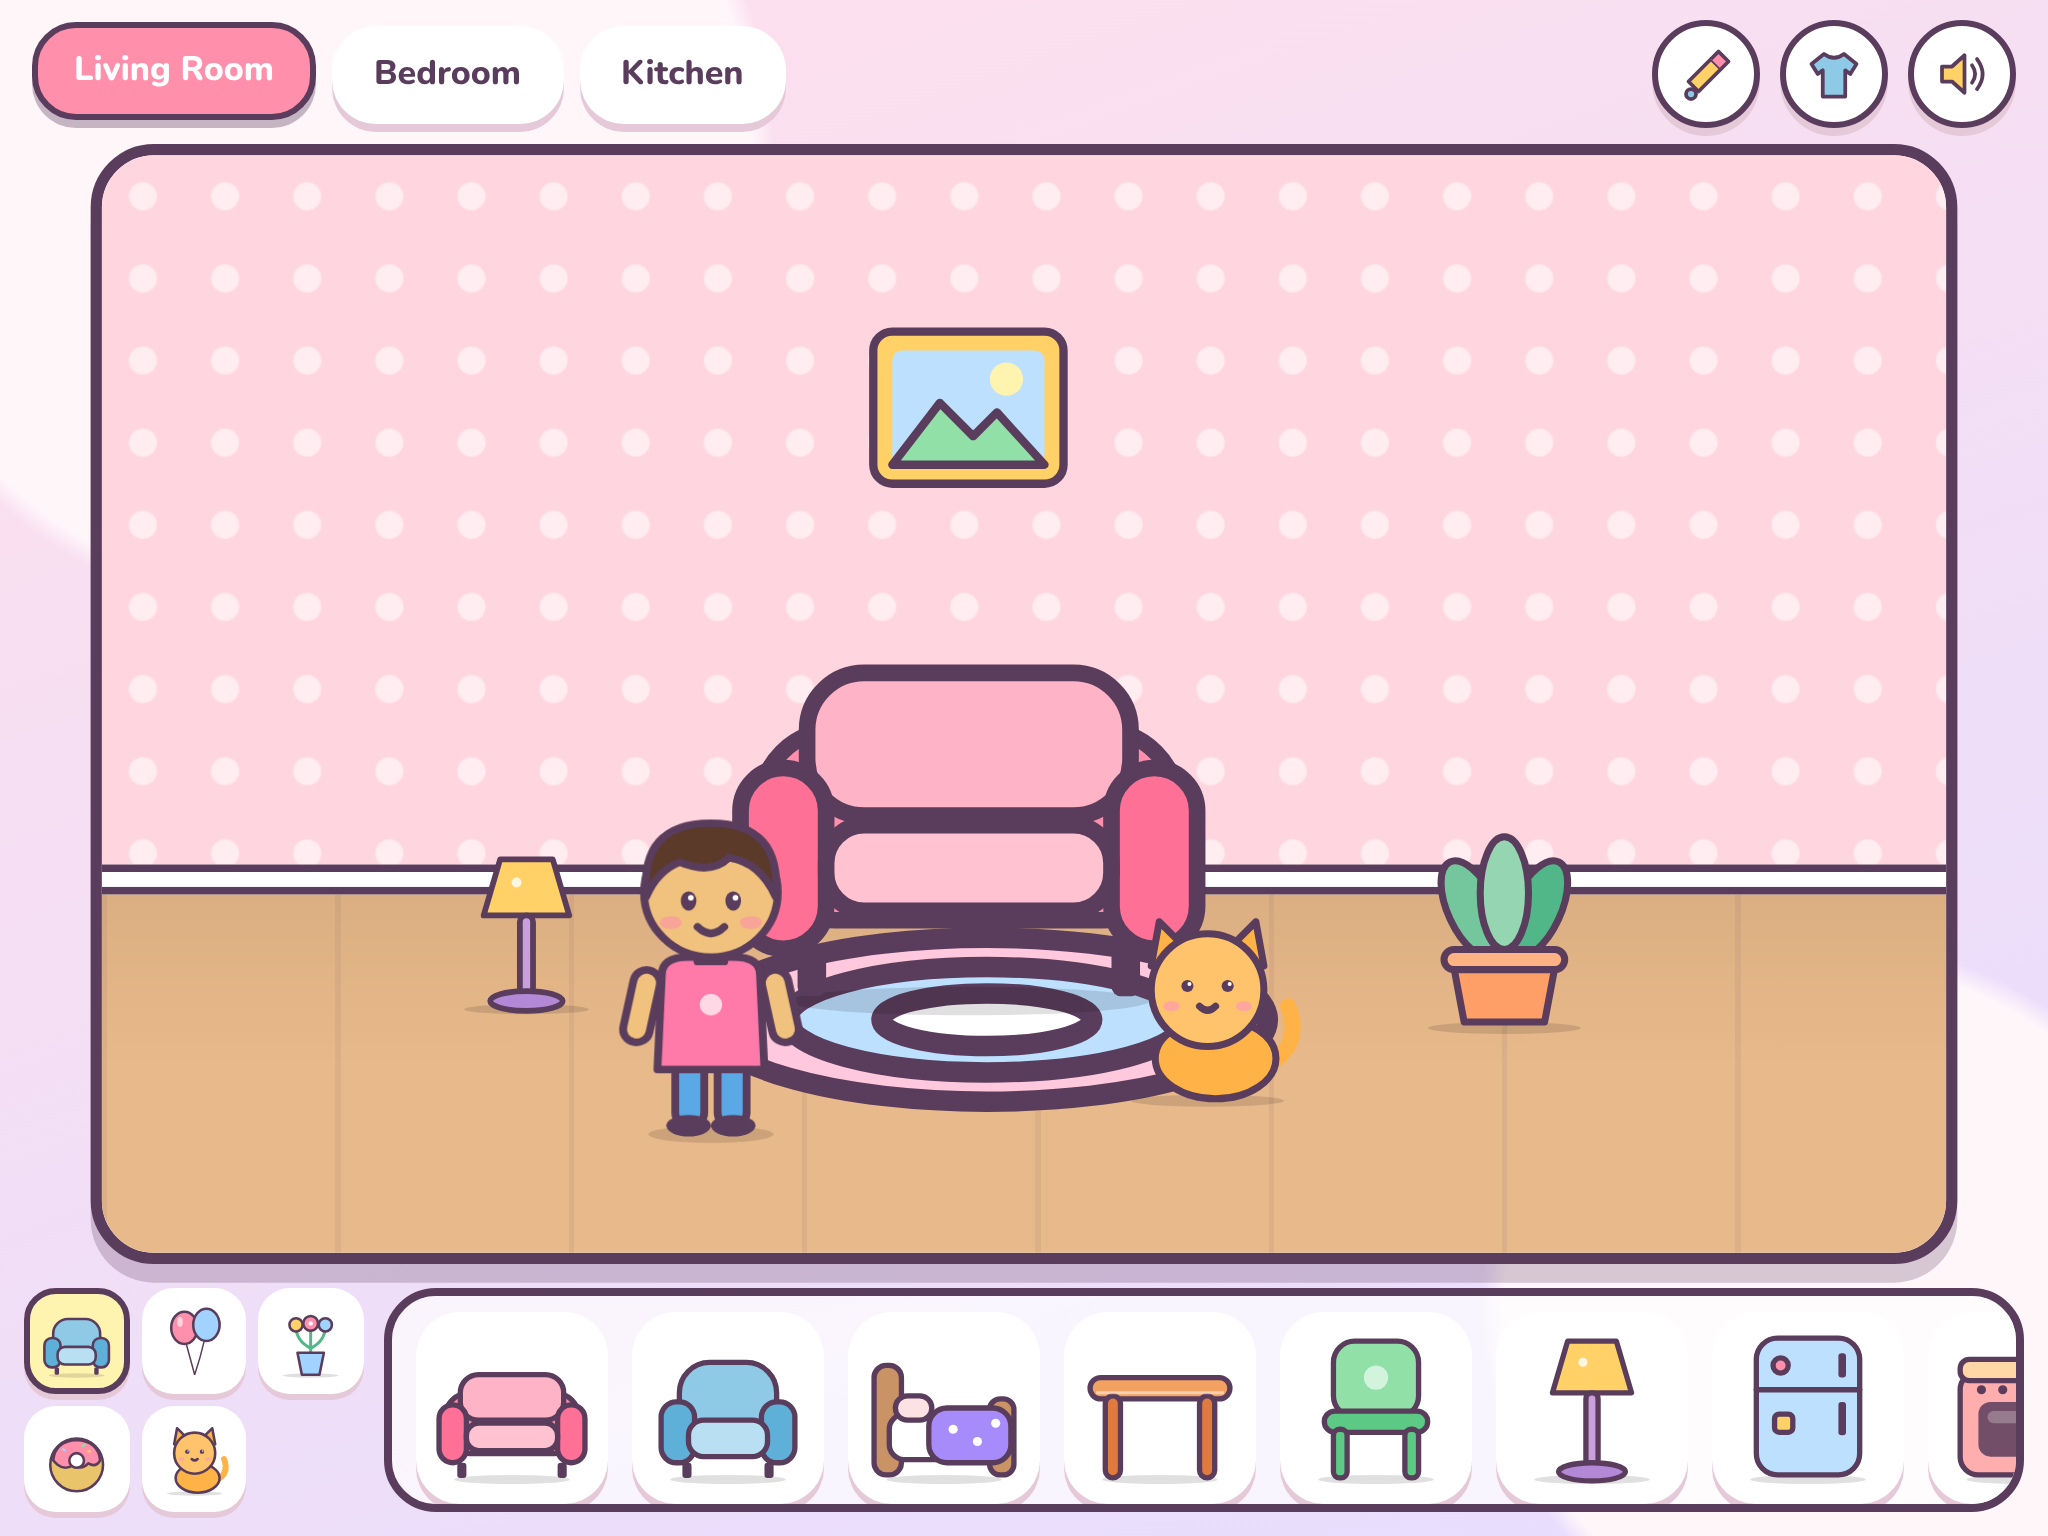
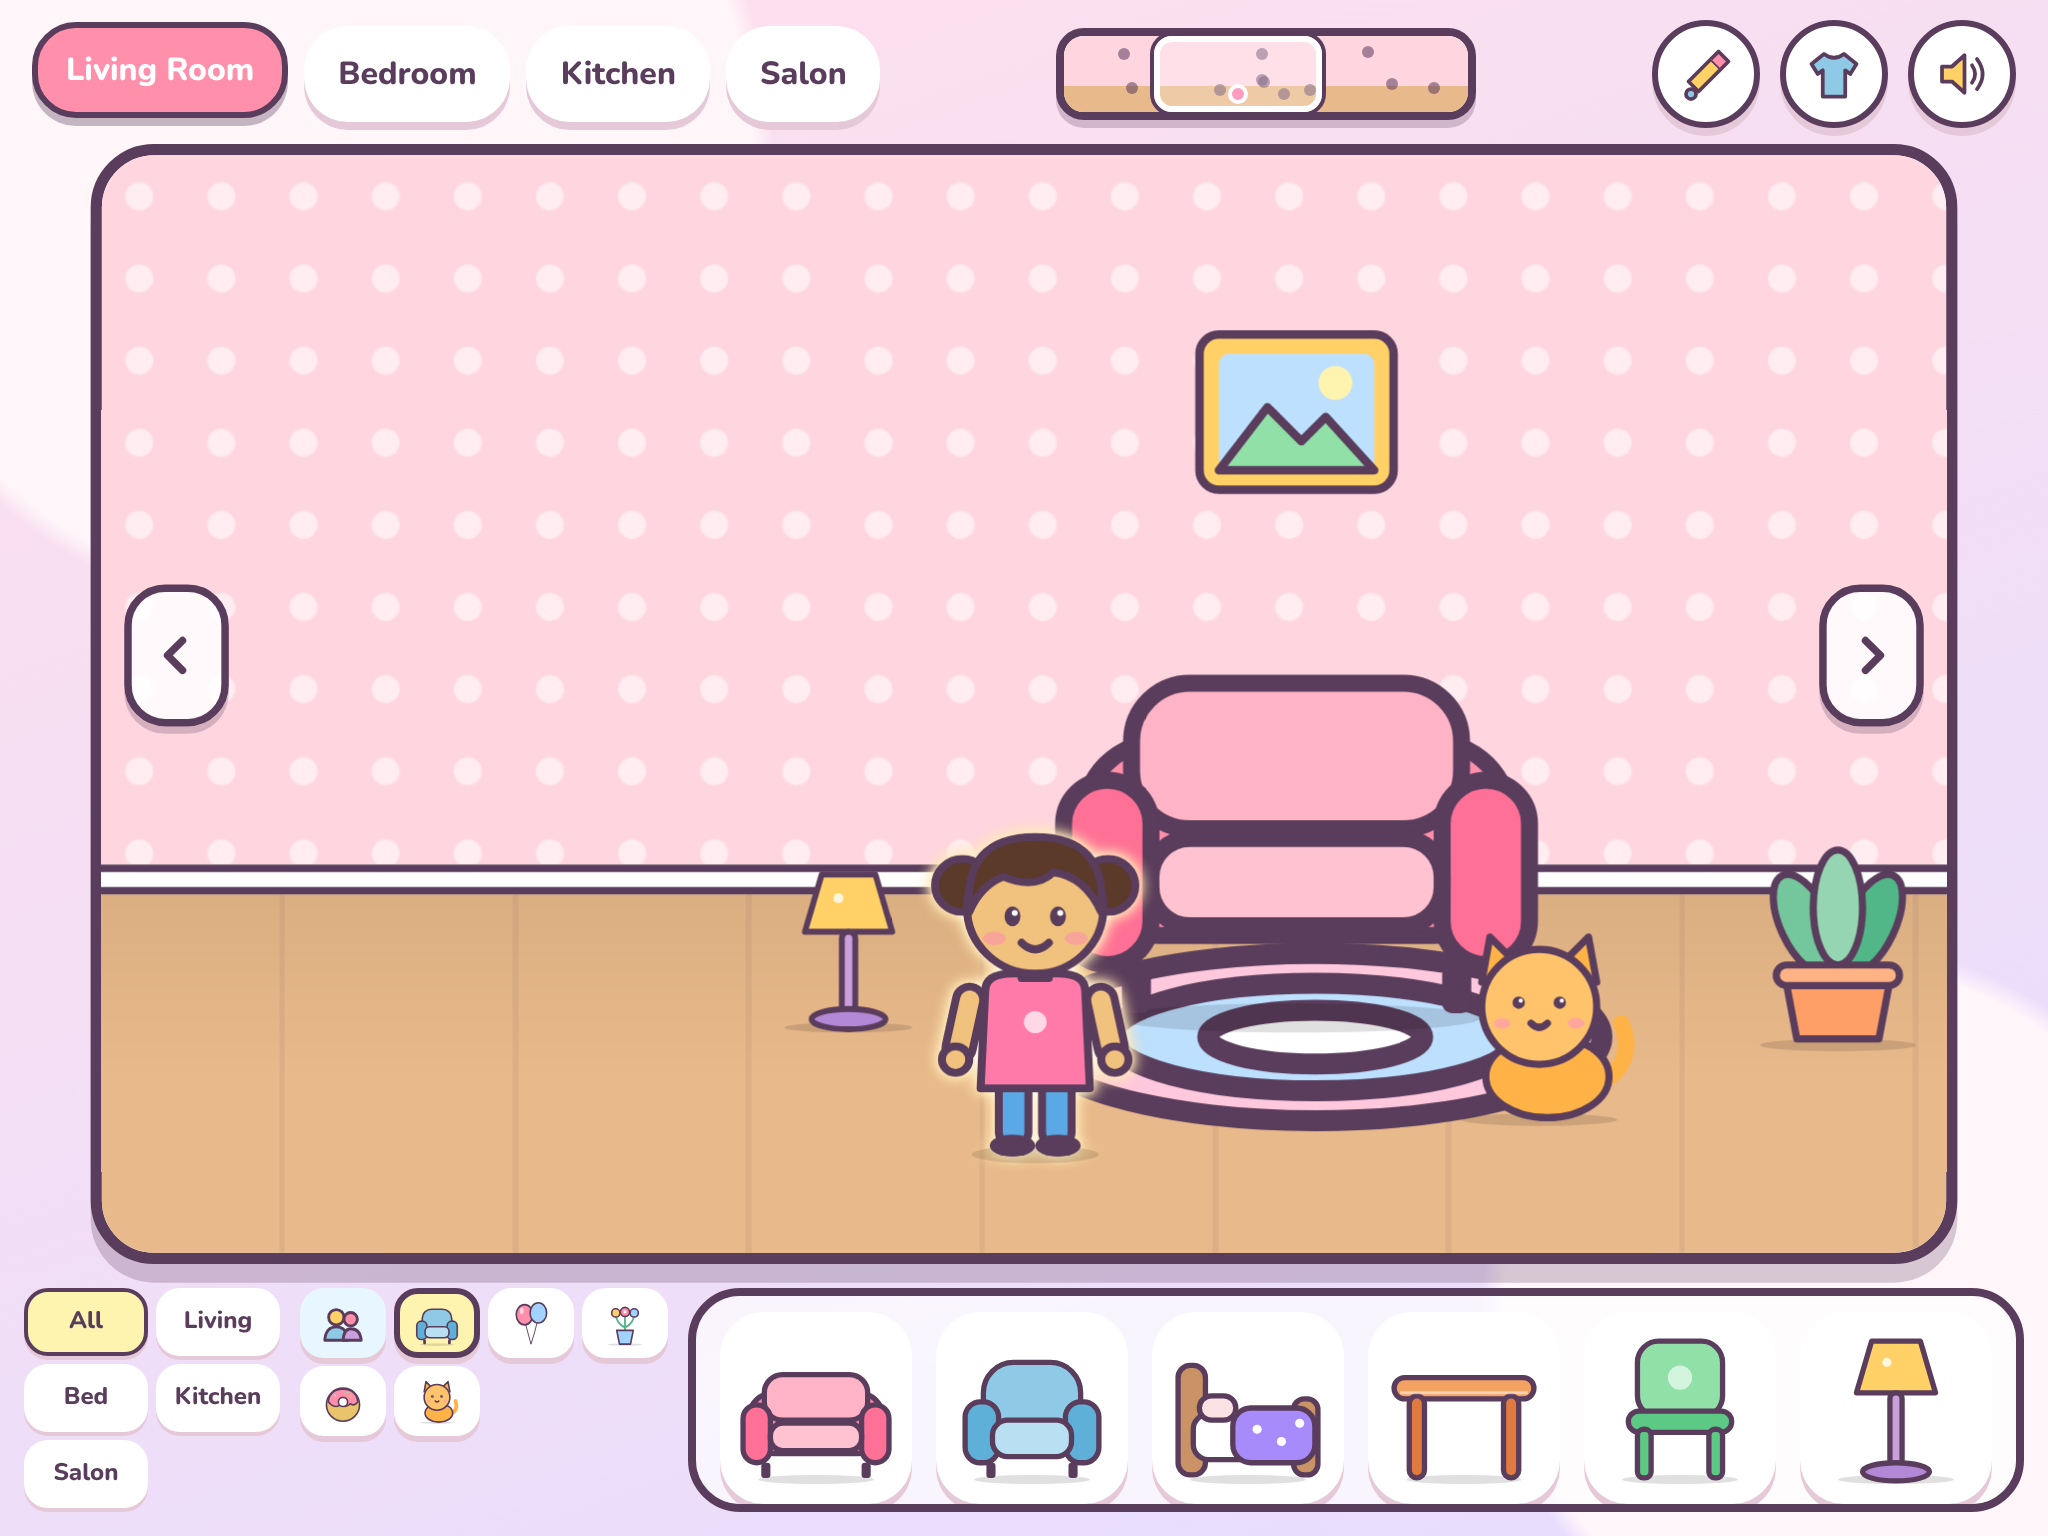
Packs: read both manifests incl. explicit pattern paths, wall snapping, readable pack tabs, no inlined art (JS 670KB -> 207KB)

diff --git a/src/main.ts b/src/main.ts
@@ -9,6 +9,8 @@ const store = createStore();
 // World is ROOM_W x ROOM_H; the stage shows a VIEW_W-wide window onto it (fits the iPad).
 const W = ROOM_W, H = ROOM_H, VIEW_W = 1000, FLOOR_Y = 390;
 const MAX_CAM = W - VIEW_W;
+const WALL_BOTTOM = 375; // wall items (manifest `wall: true`) snap so they sit on the wall
+const snapY = (def: ItemDef, y: number) => def.wall ? Math.min(y, WALL_BOTTOM) : y;
 const CHAR_W = 120, CHAR_H = 192;
 const ROOMS: { id: RoomId; name: string; color: string }[] = [
   { id: 'living', name: 'Living Room', color: '#ff8fab' },
@@ -357,7 +359,7 @@ function beginItemDrag(el: HTMLElement, e: PointerEvent, forceMoved = false) {
       if (moved) { toolbar.classList.add('hidden'); bin.classList.add('show'); }
       bin.classList.toggle('hot', overBin(ev.clientX, ev.clientY));
       const half = def.w * it.scale / 2;
-      store.dispatch({ type: 'item/move', room, id, x: Math.max(half * .6, Math.min(W - half * .6, p.x + off.x)), y: p.y + off.y });
+      store.dispatch({ type: 'item/move', room, id, x: Math.max(half * .6, Math.min(W - half * .6, p.x + off.x)), y: snapY(def, p.y + off.y) });
       if (moved) toolbar.classList.add('hidden');
       target = moved && def.holdable ? holdTarget(p) : null; showHoldTarget(target);
     },
@@ -444,8 +446,8 @@ function attachShelfDrag(btn: HTMLElement, def: ItemDef) {
         const room = store.get().currentRoom;
         const tapped = Math.hypot(ev.clientX - sx, ev.clientY - sy) < 8;
         let x: number, y: number;
-        if (tapped) { x = camX + 380 + Math.random() * 240; y = def.wall ? 260 : 500 + Math.random() * 40; }
-        else if (inStage(ev.clientX, ev.clientY)) { const p = toRoom(ev.clientX, ev.clientY); x = p.x; y = p.y + hOf(def) * .2; }
+        if (tapped) { x = camX + 380 + Math.random() * 240; y = def.wall ? Math.min(WALL_BOTTOM, 200 + hOf(def) / 2) : 500 + Math.random() * 40; }
+        else if (inStage(ev.clientX, ev.clientY)) { const p = toRoom(ev.clientX, ev.clientY); x = p.x; y = snapY(def, p.y + hOf(def) * .2); }
         else return;
         const item: PlacedItem = { id: newId(def.kind.replace(/[^a-z0-9-]/gi, '')), kind: def.kind, x, y, flip: false, z: 0, scale: 1 };
         store.dispatch({ type: 'item/add', room, item });
@@ -497,7 +499,7 @@ function renderDrawer() {
   $('roomFilter').innerHTML = ROOM_FILTERS.map(f => `<button class="rf ${f.id === roomFilter ? 'on' : ''}" data-rf="${f.id}">${f.name}</button>`).join('');
   const visible = TABS.filter(t => t.kind === 'people' || tabItems(t.id, roomFilter).length);
   if (!visible.some(t => t.id === currentTab)) currentTab = visible[1]?.id ?? '__people';
-  $('cats').innerHTML = visible.map(t => `<button class="cat ${t.kind} ${t.id === currentTab ? 'on' : ''}" data-cat="${t.id}" aria-label="${t.name}" title="${t.name}">${t.kind === 'people' ? PEOPLE_ICON : svgOf(ITEM_MAP[t.icon])}${t.kind === 'pack' ? `<span class="packname">${t.name}</span>` : ''}</button>`).join('');
+  $('cats').innerHTML = visible.map(t => `<button class="cat ${t.kind} ${t.id === currentTab ? 'on' : ''}" data-cat="${t.id}" aria-label="${t.name}" title="${t.name}">${t.kind === 'people' ? PEOPLE_ICON : t.kind === 'pack' ? `<span class="packicon">${svgOf(ITEM_MAP[t.icon])}</span><span class="packname">${t.name}</span>` : svgOf(ITEM_MAP[t.icon])}</button>`).join('');
   const shelf = $('shelf'); shelf.innerHTML = '';
   if (currentTab === '__people') {
     const s = store.get();

diff --git a/src/packs.ts b/src/packs.ts
@@ -13,7 +13,7 @@ export const packLabel = (p: string) => PACK_NAMES[p] ?? p.replace(/[-_]+/g, ' '
 
 export interface PackEntry { slug: string; name?: string; room?: string; category?: string; size?: string; pack?: string; type?: string; holdable?: boolean;
   // optional extras some deliveries include:
-  gameCategory?: string; tag?: string; gameW?: number; widthUnits?: number; heightUnits?: number; png?: string; svg?: string }
+  gameCategory?: string; tag?: string; gameW?: number; widthUnits?: number; heightUnits?: number; png?: string; svg?: string; wall?: boolean; designW?: number }
 export interface PatternDef { id: string; name: string; pack: string; kind: 'wallpaper' | 'floor'; url: string }
 
 // import.meta.glob returns {} when nothing matches, so missing files are fine.
@@ -64,12 +64,13 @@ export const PACK_ITEMS: ItemDef[] = entries.filter(e => !isPattern(e)).flatMap(
   const h = Math.round(w * Math.min(4, Math.max(0.2, ratio)));
   // optional manifest `holdable`; default: small/medium non-furniture items can be held
   const holdable = typeof e.holdable === 'boolean' ? e.holdable : size !== 'large' && cat !== 'furniture';
-  return [{ kind: `pack:${slug}`, name: e.name || slug, cat, rooms: [room], w, h, svg: '', img, pack: pack || undefined, holdable } satisfies ItemDef];
+  return [{ kind: `pack:${slug}`, name: e.name || slug, cat, rooms: [room], w, h, wall: e.wall === true || undefined, svg: '', img, pack: pack || undefined, holdable } satisfies ItemDef];
 });
 
 export const PATTERNS_FROM_PACKS: PatternDef[] = entries.filter(isPattern).flatMap(e => {
   const pack = norm(e.pack, 'extra'), slug = e.slug.trim();
-  const url = find(patternFiles, 'patterns', pack, slug);
+  const explicit = [e.svg, e.png].filter((x): x is string => typeof x === 'string').map(x => patternFiles['../assets/patterns/' + x.replace(/^\.?\//, '')]).find(Boolean);
+  const url = explicit ?? find(patternFiles, 'patterns', pack, slug);
   if (!url) { console.warn(`[packs] no image for patterns/${pack}/${slug}`); return []; }
   return [{ id: `${pack}/${slug}`, name: e.name || slug, pack, kind: norm(e.type, 'wallpaper') as 'wallpaper' | 'floor', url }];
 });

diff --git a/src/style.css b/src/style.css
@@ -122,7 +122,9 @@ svg { display: block; width: 100%; height: 100%; overflow: visible; }
 .cat.people.on { background: #fff3b0; }
 .cat.pack { background: linear-gradient(135deg, #fff, #ffe8f6); box-shadow: 0 3px 0 #f0b8da; }
 .cat .packimg { object-position: 50% 50%; }
-.packname { position: absolute; left: 0; right: 0; bottom: -2px; font-size: 7px; font-weight: 900; line-height: 1; text-align: center; color: var(--ink); white-space: nowrap; overflow: hidden; }
+.cat.pack { grid-column: span 2; display: flex; align-items: center; gap: 3px; padding: 2px 5px; }
+.packicon { flex: 0 0 26px; height: 26px; }
+.packname { flex: 1; font-size: 10.5px; font-weight: 900; line-height: 1.05; text-align: left; color: var(--ink); }
 .thing.person { position: relative; padding: 4px; background: radial-gradient(circle at 50% 80%, #fff3b0, #fff 70%); }
 .face { width: 100%; height: 100%; overflow: hidden; }
 .face svg { height: 160%; width: 100%; }

diff --git a/vite.config.ts b/vite.config.ts
@@ -1,2 +1,6 @@
 import { defineConfig } from 'vite';
-export default defineConfig({ base: process.env.VITE_BASE ?? '/kids-house-game/' });
+export default defineConfig({
+  base: process.env.VITE_BASE ?? '/kids-house-game/',
+  // keep art as separate files (loaded lazily as drawer tabs/rooms show them) instead of inlining into the JS bundle
+  build: { assetsInlineLimit: 0 },
+});

diff --git a/phase1_check.py b/phase1_check.py
@@ -1,0 +1,50 @@
+import asyncio, sys
+from playwright.async_api import async_playwright
+URL = sys.argv[1] if len(sys.argv) > 1 else 'http://localhost:4173/kids-house-game/'
+async def main():
+    async with async_playwright() as p:
+        b = await p.chromium.launch(); ctx = await b.new_context(viewport={'width':1024,'height':768}, device_scale_factor=2, has_touch=True)
+        pg = await ctx.new_page(); logs=[]; bad=[]
+        pg.on('console', lambda m: m.type in ('warning','error') and logs.append(m.type+': '+m.text)); pg.on('pageerror', lambda e: logs.append('ERR '+str(e)))
+        pg.on('response', lambda r: r.status >= 400 and bad.append((r.status, r.url)))
+        await pg.goto(URL); await pg.evaluate("localStorage.clear()"); await pg.reload(); await pg.wait_for_timeout(800)
+        n = await pg.evaluate("Object.keys(__items).length"); print('image items loaded:', n)
+        print('tabs:', await pg.locator('.cat').evaluate_all("e=>e.map(x=>x.dataset.cat)"))
+        # walk every tab under "All" and check every drawer image decodes
+        broken = []; total = 0
+        for cat in await pg.locator('.cat').evaluate_all("e=>e.map(x=>x.dataset.cat)"):
+            await pg.click(f'.cat[data-cat="{cat}"]'); await pg.wait_for_timeout(150)
+            await pg.evaluate("Promise.all([...document.querySelectorAll('.shelf img')].map(i => i.decode().catch(()=>{})))")
+            res = await pg.evaluate("[...document.querySelectorAll('.shelf img')].map(i => [i.alt, i.naturalWidth > 0])")
+            total += len(res); broken += [a for a, ok in res if not ok]
+        print('drawer images checked:', total, 'broken:', broken)
+        # patterns
+        await pg.click('[data-room="salon"]'); await pg.wait_for_timeout(400)
+        await pg.click('.cat[data-cat="pack:glossy"]'); await pg.wait_for_timeout(600)
+        await pg.screenshot(path='screens/18-pack-tab-glossy-salon.png')
+        await pg.click('#btnPaint'); await pg.wait_for_timeout(500)
+        print('wall tiles:', await pg.locator('.dot.tile[data-act="wtile"]').count(), 'floor tiles:', await pg.locator('.dot.tile[data-act="ftile"]').count())
+        await pg.click('.dot.tile[data-v="glossy/pink-hearts"]'); await pg.click('.dot.tile[data-v="glossy/pink-check-floor"]'); await pg.wait_for_timeout(500)
+        await pg.screenshot(path='screens/19-paint-panel-pack-patterns.png')
+        await pg.click('.close'); await pg.wait_for_timeout(500)
+        await pg.screenshot(path='screens/20-salon-glossy-wallpaper.png')
+        await pg.click('[data-room="bedroom"]'); await pg.wait_for_timeout(300); await pg.click('#btnPaint')
+        await pg.click('.dot.tile[data-v="sunny-vibes/sky-clouds"]'); await pg.click('.dot.tile[data-v="sunny-vibes/butter-check-floor"]'); await pg.click('.close')
+        await pg.click('.cat[data-cat="pack:sunny-vibes"]'); await pg.wait_for_timeout(300)
+        # place a few sunny-vibes items and a wall item dropped low (should snap up onto the wall)
+        things = pg.locator('.shelf .thing')
+        for i, (x, y) in enumerate([(300, 520), (520, 540), (760, 520)]):
+            bb = await things.nth(i).bounding_box(); await pg.mouse.move(bb['x']+40, bb['y']+40); await pg.mouse.down(); await pg.mouse.move(x, y, steps=8); await pg.mouse.up(); await pg.wait_for_timeout(250)
+        await pg.click('[data-cat="decor"]'); await pg.click('[data-rf="bedroom"]'); await pg.wait_for_timeout(300)
+        wl = pg.locator('.shelf .thing[aria-label="Pin Board"]')
+        if await wl.count():
+            await wl.scroll_into_view_if_needed(); bb = await wl.bounding_box()
+            await pg.mouse.move(bb['x']+40, bb['y']+40); await pg.mouse.down(); await pg.mouse.move(640, 560, steps=8); await pg.mouse.up(); await pg.wait_for_timeout(300)
+            it = (await pg.evaluate("__store.get()"))['rooms']['bedroom']['items'][-1]; print('wall item', it['kind'], 'dropped low -> y', round(it['y']))
+        await pg.mouse.click(600, 120); await pg.click('.cat[data-cat="pack:sunny-vibes"]'); await pg.wait_for_timeout(500)
+        await pg.screenshot(path='screens/21-bedroom-sunny-vibes-pack.png')
+        await pg.click('[data-room="living"]'); await pg.click('.cat[data-cat="pack:welcome-home"]'); await pg.wait_for_timeout(500)
+        await pg.screenshot(path='screens/22-pack-tab-welcome-home.png')
+        print('http errors:', bad); print('console warnings/errors:', logs)
+        await b.close()
+asyncio.run(main())

diff --git a/assets/items/README.md b/assets/items/README.md
@@ -1,10 +1,10 @@
 # Image item packs
-Drop files at `assets/items/<room>/<slug>.png` (or `.svg` / `.webp`) and list them in `manifest.json`:
+Read at build time by `src/packs.ts` from two manifests (both optional; missing/empty/invalid = no extra content):
 
-```json
-[{ "slug": "pink-lamp", "name": "Pink Lamp", "room": "bedroom", "category": "furniture", "size": "medium" }]
-```
-- `room`: living | bedroom | kitchen | any (or a new room name, which gets its own drawer filter)
-- `category`: furniture | decor | plants | food | pets (new names get their own drawer tab)
-- `size`: small (80) | medium (150) | large (260) room units wide; images are fitted bottom-centre, transparent PNGs look best.
-Read at build time (`src/packs.ts`); an empty, missing or invalid manifest just means no pack items. Rebuild + `npm run deploy` after adding.
+- `assets/items/manifest.json`: items. Fields: `slug`, `name`, `category` (furniture | decor | plants | food | pets; other values are mapped, unknown -> decor),
+  `room` (living | bedroom | kitchen | salon; omitted = shows under every room filter), optional `pack` (gets its own drawer tab), `holdable`,
+  `wall: true` (snaps to the wall area), `gameW` + `widthUnits`/`heightUnits` (size + aspect; falls back to `size` small/medium/large),
+  `svg`/`png` paths relative to `assets/items/` (SVG preferred). `tag`, `gameCategory`, `designW`, `viewBox`, `pngPx` are informational.
+- `assets/patterns/manifest.json`: `{ type: 'wallpaper' | 'floor', slug, name, pack, svg?, png? }`, files in `assets/patterns/<pack>/`.
+
+Files whose names start with `_` (contact sheets) are ignored. Rebuild + `npm run deploy` after changes.
